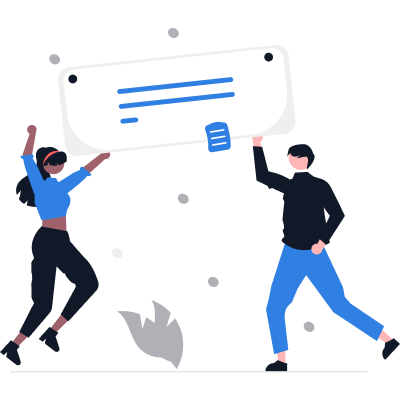
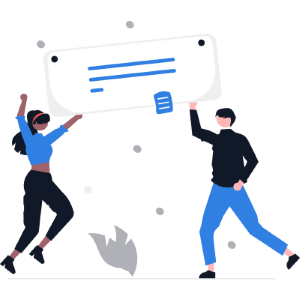
CE-1491 Updates getting started text

diff --git a/src/renderer/ui/dialog/OnBoardingDialog.tsx b/src/renderer/ui/dialog/OnBoardingDialog.tsx
@@ -35,19 +35,19 @@ const useStyles = makeStyles((theme) => ({
       flexFlow: 'column',
 
       '& p': {
-        textAlign: 'center'
+        textAlign: 'center',
       },
 
       '& .title': {
         margin: 0,
         marginBottom: 8,
-        fontSize: 34,
+        fontSize: 32,
         fontWeight: 600,
       },
       '& .subtitle': {
-        width: '80%',
         margin: '0 auto',
-        fontSize: 17,
+        fontSize: 16,
+        width: '90%',
       }
     },
 
@@ -59,7 +59,8 @@ const useStyles = makeStyles((theme) => ({
       alignItems: 'center',
 
       '& > .slide': {
-        maxWidth: '100%'
+        maxWidth: '90%',
+        maxHeight: '90%',
       }
     },
   },
@@ -85,48 +86,49 @@ const useStyles = makeStyles((theme) => ({
 
 const SLIDES = [
   {
-    title: 'Welcome to Fossity Probe!',
-    subtitle: 'Fossity is a specially designed Open Source Auditing Platform with a totally decentralized auditing network. Fossity makes auditing confidential by definition',
+    title: 'Congratulations and thank you for downloading Fossity Probe!',
+    subtitle: 'Fossity Probe is designed to be simple and straightforward to use. Just answer a few basic questions and let the tool extract fingerprints from your code, and Open Source dependencies. Fossity is inherently confidential, as it operates on a Zero Trust principle that does not require the transfer of any sensitive information from the audited code or company.',
     img: c01
   },
   {
-    title: 'Audit Your Projects easier',
-    subtitle: 'Collect software samples with one click and start the process',
+    title: 'Open Source Auditing has never been easier',
+    subtitle: 'Collect your code fingerprints with one click and start the process',
     img: c02
   },
   {
-    title: 'Complete the basic information',
-    subtitle: 'Load the basic information so we can reach you and know more about your audit project',
+    title: 'Answer a few basic questions',
+    subtitle: 'You answers provide context for the auditors and should contain no sensitive information',
     img: c03
   },
   {
-    title: 'Obfuscate strings',
-    subtitle: 'Ban the words sensibles to your project',
+    title: 'File path obfuscation',
+    subtitle: 'To protect sensitive information, you can hide it in file paths by blocking certain keywords',
     img: c04
   },
   {
-    title: 'Analyze your audit project',
-    subtitle: 'Create the fingerprints to audit after',
+    title: 'Fingerprint collection',
+    subtitle: 'Let the Fossity Probe recursively analyze your directory and extract code fingerprints',
     img: c05,
   },
   {
-    title: 'Review the new code',
-    subtitle: 'Check the samples generated, everything must be right when you export.',
+    title: 'Check the information collected ',
+    subtitle: 'All information collected by the Probe will be accessible for your review',
     img: c06,
   },
   {
-    title: 'Download the file .fossity',
-    subtitle: 'Get the file with all your audit project information',
+    title: 'Download the .fossity file',
+    subtitle: 'After you\'ve reviewed the generated files, the Probe will compress and encrypt all information into a single .fossity file, which can be submitted to Fossity to initiate the audit',
     img: c07,
   },
   {
-    title: 'Upload the file in fossity.com',
-    subtitle: 'Go to fossity.com and upload your file. We will reach you to start the Audit!',
+    title: 'Upload your .fossity file',
+    subtitle: 'Securely transfer your file by dropping it in the Fossity website. You will receive a quotation automatically',
     img: c08,
   },
   {
-    title: 'Start auditing easier!',
-    subtitle: 'Now you have it, go and audit your projects in a new simpler way',
+    title: 'Great job, you\'re all set!',
+    subtitle: 'Get started on your software audit immediately by accepting our competitive quote – no further input necessary. \n' +
+      'If you choose to decline the offer or take no action within 48 hours, we automatically delete all information, leaving no trace of the quotation ever being generated.',
     img: c09,
   },
 

diff --git a/src/renderer/theme/Main.global.scss b/src/renderer/theme/Main.global.scss
@@ -8,7 +8,7 @@ body {
   padding: 0;
 
   height: 100vh;
-  // min-width: 800px;
+  min-width: 1024px;
   background-color: var(--background-color-primary);
 
   &::before {
